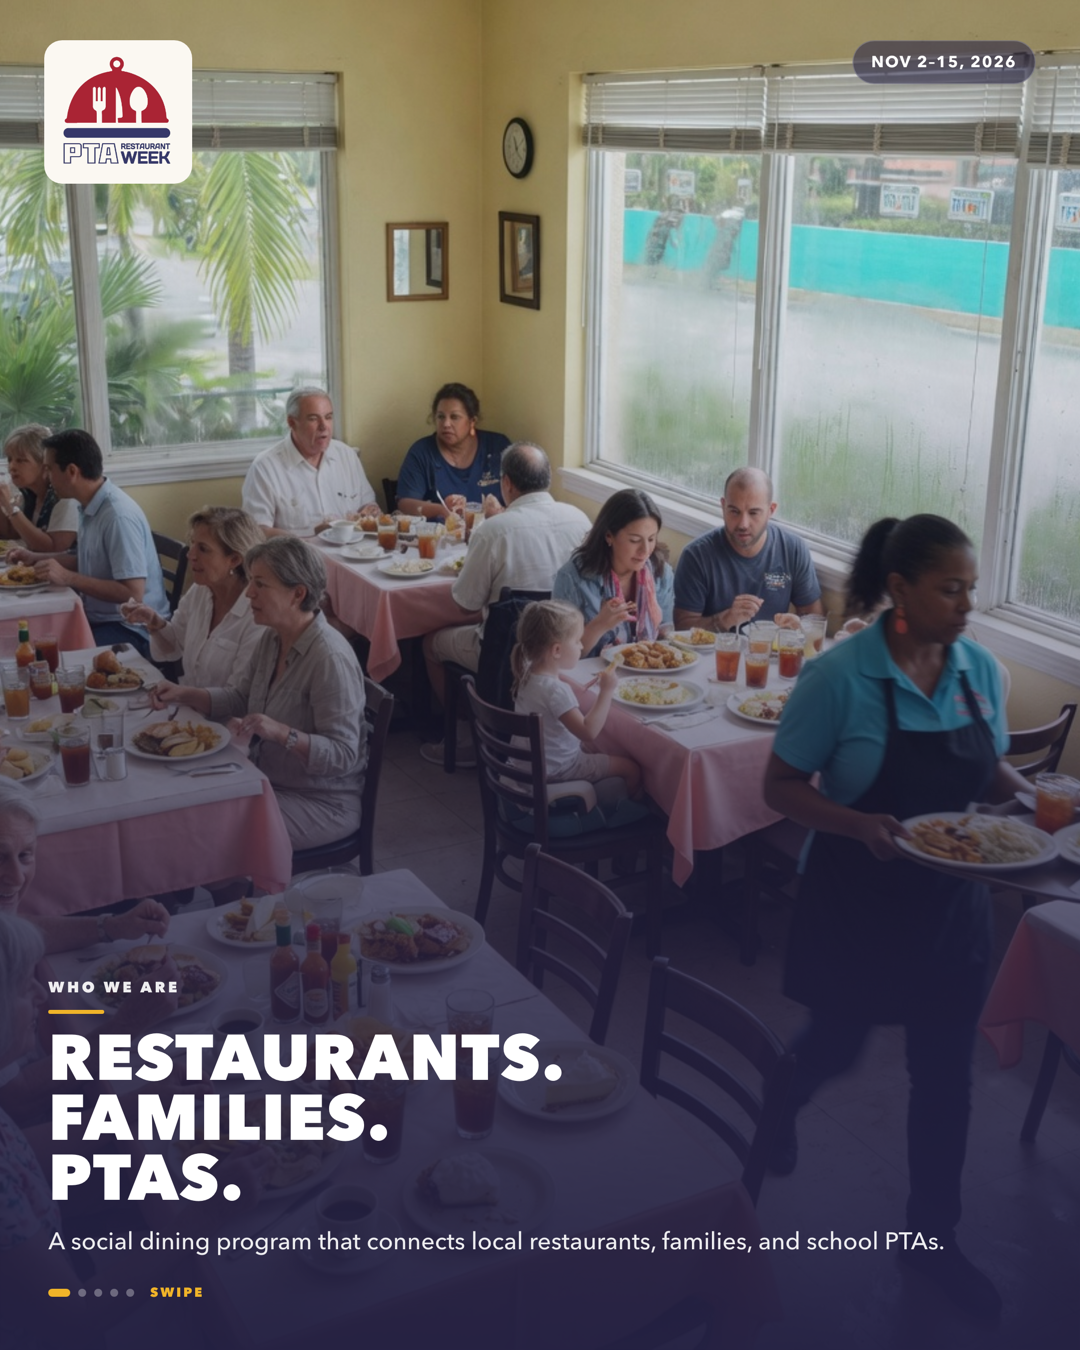
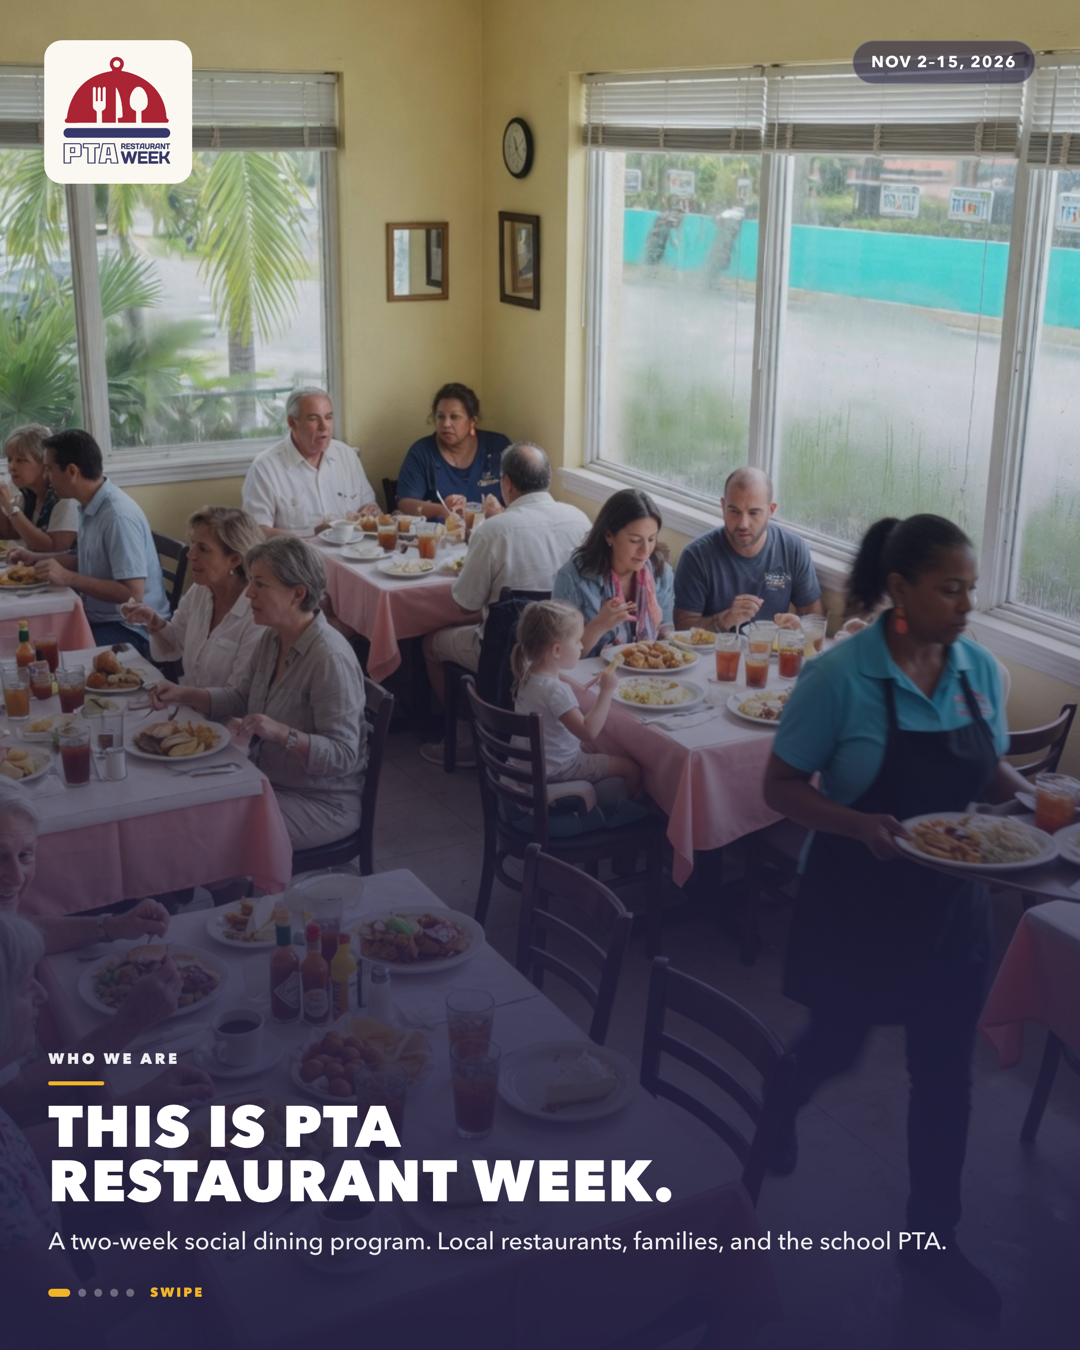
Add how-it-works carousel and refresh 29 ago gallery

Changed region(s): [[0.0306, 0.7156, 0.8861, 0.9333]]

diff --git a/2026-08-29/index.html b/2026-08-29/index.html
@@ -3,7 +3,7 @@
 <head>
 <meta charset="utf-8">
 <meta name="viewport" content="width=device-width, initial-scale=1">
-<title>29 ago 2026 — 3 carrosséis fixados (sem $900)</title>
+<title>29 ago 2026 — 4 carrosséis fixados</title>
 <style>
 :root{--navy:#33305E;--navy-dark:#242143;--cream:#FBF8F2;--red:#A32638;--gold:#F0B429;--ink:#241F33;--line:#E7E1D6;--muted:#5B5670}
 *{box-sizing:border-box}
@@ -39,36 +39,37 @@ footer{padding:20px;color:var(--muted);font-size:13px;text-align:center}
 <header>
   <div class="wrap">
     <p class="eyebrow">Pasta do dia · 29 ago 2026</p>
-    <h1>Os 3 carrosséis da vitrine, sem $900: quem somos, para quem é, quem está por trás.</h1>
-    <p class="lede">Feed 1080×1350 em PNG. Benefício do restaurante + comunidade. Escola continua $0.</p>
+    <h1>Os 4 carrosséis da vitrine: quem somos (o PTA é isso), para quem é, quem está por trás, como funciona.</h1>
+    <p class="lede">Feed 1080×1350 em PNG. Quem somos e o que é viraram um só. Sem taxa de inscrição.</p>
   </div>
 </header>
 <main>
 <div class="wrap">
 
-<div class="note"><b>Analogia.</b> Posts fixados são a vitrine da loja. Quem passa na calçada lê só isso. A vitrine agora fala o que o restaurante <i>tem no pacote</i> e o que a comunidade <i>faz na mesa</i> — não o preço da inscrição.</div>
+<div class="note"><b>Analogia.</b> PTA é a comissão de pais e mestres da escola — tipo a “comissão da festa”. PTA Restaurant Week é a semana em que o restaurante da esquina senta nessa mesma mesa.</div>
 
-<pre class="diagram">ANTES (26 ago)                 AGORA (29 ago)
-$900 to join                   The restaurant benefit
-Restaurant fee                 Window + kit + community
-How it works = preço           Quem somos + para quem é
-                               + Emerson</pre>
+<pre class="diagram">PINAR NESTA ORDEM
+1  Quem somos     →  o PTA é isso
+2  Para quem é    →  restaurante + escola
+3  Quem está atrás →  Emerson
+4  Como funciona  →  3 passos, 2 semanas</pre>
 
 <table>
-  <thead><tr><th></th><th>Sai</th><th>Entra</th></tr></thead>
+  <thead><tr><th>Post</th><th>Responde</th></tr></thead>
   <tbody>
-    <tr><td>Restaurante</td><td>$900</td><td>Janela de 2 semanas, kit (banner, QR, PR) e papel de parceiro da escola da esquina</td></tr>
-    <tr><td>Comunidade</td><td>—</td><td>20% do prato promo vai restaurante → PTA. Famílias jantam. Escola está na mesa.</td></tr>
-    <tr><td>Escola</td><td>$0 (fica)</td><td>$0. Sem catálogo. Sem pickup.</td></tr>
+    <tr><td>1 · Who we are</td><td>PTA = associação de pais e mestres. PTA Restaurant Week = o programa de 2 semanas.</td></tr>
+    <tr><td>2 · Who it’s for</td><td>Benefício do restaurante (janela, kit, comunidade) e escola $0.</td></tr>
+    <tr><td>3 · Who’s behind</td><td>Emerson. 1992 NY · 2005 Brasil · 2026 Flórida.</td></tr>
+    <tr><td>4 · How it works</td><td>Entra · janta · 20% do prato promo vai restaurante → PTA.</td></tr>
   </tbody>
 </table>
 
-<h2>1 · Who we are — 5 slides</h2>
+<h2>1 · Who we are — o PTA é isso</h2>
 <div class="row">
-  <figure><a href="01-who-we-are/01.png"><img src="01-who-we-are/01.png" alt=""></a><figcaption><b>1 · capa</b><span>Restaurants. Families. PTAs.</span></figcaption></figure>
-  <figure><a href="01-who-we-are/02.png"><img src="01-who-we-are/02.png" alt=""></a><figcaption><b>2 · origem</b><span>NYC Restaurant Week, 1992.</span></figcaption></figure>
-  <figure><a href="01-who-we-are/03.png"><img src="01-who-we-are/03.png" alt=""></a><figcaption><b>3 · a mesa</b><span>Benefício restaurante + comunidade</span></figcaption></figure>
-  <figure><a href="01-who-we-are/04.png"><img src="01-who-we-are/04.png" alt=""></a><figcaption><b>4 · o give</b><span>20% · 14 days · $0 escola</span></figcaption></figure>
+  <figure><a href="01-who-we-are/01.png"><img src="01-who-we-are/01.png" alt=""></a><figcaption><b>1 · capa</b><span>This is PTA Restaurant Week.</span></figcaption></figure>
+  <figure><a href="01-who-we-are/02.png"><img src="01-who-we-are/02.png" alt=""></a><figcaption><b>2 · o que é PTA</b><span>Parent-teacher association.</span></figcaption></figure>
+  <figure><a href="01-who-we-are/03.png"><img src="01-who-we-are/03.png" alt=""></a><figcaption><b>3 · o programa</b><span>Restaurants · families · PTA</span></figcaption></figure>
+  <figure><a href="01-who-we-are/04.png"><img src="01-who-we-are/04.png" alt=""></a><figcaption><b>4 · origem</b><span>NYC Restaurant Week, 1992.</span></figcaption></figure>
   <figure><a href="01-who-we-are/05.png"><img src="01-who-we-are/05.png" alt=""></a><figcaption><b>5 · slogan</b><span>EVERY MEAL CAN GIVE.</span></figcaption></figure>
 </div>
 <p><a class="dl" href="01-who-we-are/legenda.txt">Legenda</a></p>
@@ -91,14 +92,24 @@ How it works = preço           Quem somos + para quem é
 </div>
 <p><a class="dl" href="03-behind-pta/legenda.txt">Legenda</a></p>
 
-<p style="margin-top:28px"><span class="ok">13 artes · 3 legendas · $900 fora de cada slide e de cada caption.</span></p>
+<h2>4 · How it works — 5 slides</h2>
+<div class="row">
+  <figure><a href="04-how-it-works/01.png"><img src="04-how-it-works/01.png" alt=""></a><figcaption><b>1 · capa</b><span>Three steps. Two weeks. One school.</span></figcaption></figure>
+  <figure><a href="04-how-it-works/02.png"><img src="04-how-it-works/02.png" alt=""></a><figcaption><b>2 · entra</b><span>Promo menu + escola da esquina.</span></figcaption></figure>
+  <figure><a href="04-how-it-works/03.png"><img src="04-how-it-works/03.png" alt=""></a><figcaption><b>3 · janta</b><span>Nov 2–15. In / takeout / pickup.</span></figcaption></figure>
+  <figure><a href="04-how-it-works/04.png"><img src="04-how-it-works/04.png" alt=""></a><figcaption><b>4 · comunidade</b><span>20% do prato promo. Não da conta.</span></figcaption></figure>
+  <figure><a href="04-how-it-works/05.png"><img src="04-how-it-works/05.png" alt=""></a><figcaption><b>5 · o programa</b><span>Eat local. Give back.</span></figcaption></figure>
+</div>
+<p><a class="dl" href="04-how-it-works/legenda.txt">Legenda</a></p>
+
+<p style="margin-top:28px"><span class="ok">18 artes · 4 legendas · taxa de inscrição fora de cada slide e de cada caption.</span></p>
 
 <div class="do">
   <strong>O que você precisa fazer</strong>
   <ol>
-    <li>Abra esta página no celular e passe os 3 carrosséis.</li>
+    <li>Abra esta página e passe os 4 carrosséis — comece pelo 1 (o PTA é isso).</li>
     <li>Se estiver ok: pasta <b>PTARW-para-WhatsApp</b> na Mesa → mande cada ZIP como <b>documento</b>.</li>
-    <li>No Instagram, pinar na ordem 1 → 2 → 3. Formato feed.</li>
+    <li>No Instagram, pinar na ordem 1 → 2 → 3 → 4. Formato feed.</li>
   </ol>
 </div>
 

diff --git a/2026-08-29/04-how-it-works/html/04.html b/2026-08-29/04-how-it-works/html/04.html
@@ -453,21 +453,23 @@ html, body, .card {
 }
 
 </style></head><body>
-<div class="card">
-  <div class="bg" style="background-image:url('/Users/icarosousa/IP DIGITAL/PROJETO PTA -/Gerações IP Digital/brand-system/assets/photos/dining-window.jpg');"></div>
-  <div class="scrim"></div>
-  <div class="top">
-    <div class="logo-card"><img src="/Users/icarosousa/IP DIGITAL/PROJETO PTA -/Gerações IP Digital/brand-system/assets/logos/logo-transparent.png" alt=""></div>
-    <div class="date">NOV 2–15, 2026</div>
-  </div>
-  <div class="content">
-    <div class="eyebrow">WHO WE ARE</div>
+<div class="card graphic">
+  <div class="navy-bar"></div>
+  <div class="gwrap">
+    <div class="top" style="position:static;margin:0 0 8px;padding:0">
+      <div class="logo-card"><img src="/Users/icarosousa/IP DIGITAL/PROJETO PTA -/Gerações IP Digital/brand-system/assets/logos/logo-transparent.png" alt=""></div>
+      <div class="date">NOV 2–15, 2026</div>
+    </div>
+    <div class="kicker">STEP THREE — THE COMMUNITY</div>
     <div class="gold-rule"></div>
-    <h1 style="font-size:58px">This is PTA<br>Restaurant Week.</h1>
+    <div class="num">3</div>
+    <h1 style="font-size:40px">20% of the promo item. Not the whole check.</h1>
     
-    <p class="body">A two-week social dining program. Local restaurants, families, and the school PTA.</p>
-    
-    <div class="dots"><i class="on"></i><i class=""></i><i class=""></i><i class=""></i><i class=""></i><span class="swipe">SWIPE</span></div>
+    <p class="copy">Drinks, tax, and tip stay with the restaurant. <span class="stat">20%</span> of each qualifying promo item goes restaurant → PTA within 15 days. We never hold the funds.</p>
+    <div class="bot">
+      <div class="dots"><i class=""></i><i class=""></i><i class=""></i><i class="on"></i><i class=""></i></div>
+      <div class="url">ptarestaurantweek.com</div>
+    </div>
   </div>
 </div>
 </body></html>

diff --git a/2026-08-29/04-how-it-works/html/02.html b/2026-08-29/04-how-it-works/html/02.html
@@ -453,21 +453,23 @@ html, body, .card {
 }
 
 </style></head><body>
-<div class="card">
-  <div class="bg" style="background-image:url('/Users/icarosousa/IP DIGITAL/PROJETO PTA -/Gerações IP Digital/brand-system/assets/photos/dining-window.jpg');"></div>
-  <div class="scrim"></div>
-  <div class="top">
-    <div class="logo-card"><img src="/Users/icarosousa/IP DIGITAL/PROJETO PTA -/Gerações IP Digital/brand-system/assets/logos/logo-transparent.png" alt=""></div>
-    <div class="date">NOV 2–15, 2026</div>
-  </div>
-  <div class="content">
-    <div class="eyebrow">WHO WE ARE</div>
+<div class="card graphic">
+  <div class="navy-bar"></div>
+  <div class="gwrap">
+    <div class="top" style="position:static;margin:0 0 8px;padding:0">
+      <div class="logo-card"><img src="/Users/icarosousa/IP DIGITAL/PROJETO PTA -/Gerações IP Digital/brand-system/assets/logos/logo-transparent.png" alt=""></div>
+      <div class="date">NOV 2–15, 2026</div>
+    </div>
+    <div class="kicker">STEP ONE — RESTAURANTS JOIN</div>
     <div class="gold-rule"></div>
-    <h1 style="font-size:58px">This is PTA<br>Restaurant Week.</h1>
+    <div class="num">1</div>
+    <h1 style="font-size:42px">A promo menu. A nearby school.</h1>
     
-    <p class="body">A two-week social dining program. Local restaurants, families, and the school PTA.</p>
-    
-    <div class="dots"><i class="on"></i><i class=""></i><i class=""></i><i class=""></i><i class=""></i><span class="swipe">SWIPE</span></div>
+    <p class="copy">You pick 2–5 lunch and dinner items and the school next door. Enrollment is open through October 2. The school / PTA fee is always <span class="stat">$0</span>.</p>
+    <div class="bot">
+      <div class="dots"><i class=""></i><i class="on"></i><i class=""></i><i class=""></i><i class=""></i></div>
+      <div class="url">ptarestaurantweek.com</div>
+    </div>
   </div>
 </div>
 </body></html>

diff --git a/2026-08-29/04-how-it-works/html/03.html b/2026-08-29/04-how-it-works/html/03.html
@@ -453,21 +453,23 @@ html, body, .card {
 }
 
 </style></head><body>
-<div class="card">
-  <div class="bg" style="background-image:url('/Users/icarosousa/IP DIGITAL/PROJETO PTA -/Gerações IP Digital/brand-system/assets/photos/dining-window.jpg');"></div>
-  <div class="scrim"></div>
-  <div class="top">
-    <div class="logo-card"><img src="/Users/icarosousa/IP DIGITAL/PROJETO PTA -/Gerações IP Digital/brand-system/assets/logos/logo-transparent.png" alt=""></div>
-    <div class="date">NOV 2–15, 2026</div>
-  </div>
-  <div class="content">
-    <div class="eyebrow">WHO WE ARE</div>
+<div class="card graphic">
+  <div class="navy-bar"></div>
+  <div class="gwrap">
+    <div class="top" style="position:static;margin:0 0 8px;padding:0">
+      <div class="logo-card"><img src="/Users/icarosousa/IP DIGITAL/PROJETO PTA -/Gerações IP Digital/brand-system/assets/logos/logo-transparent.png" alt=""></div>
+      <div class="date">NOV 2–15, 2026</div>
+    </div>
+    <div class="kicker">STEP TWO — FAMILIES DINE</div>
     <div class="gold-rule"></div>
-    <h1 style="font-size:58px">This is PTA<br>Restaurant Week.</h1>
+    <div class="num">2</div>
+    <h1 style="font-size:44px">Families eat Nov 2–15.</h1>
     
-    <p class="body">A two-week social dining program. Local restaurants, families, and the school PTA.</p>
-    
-    <div class="dots"><i class="on"></i><i class=""></i><i class=""></i><i class=""></i><i class=""></i><span class="swipe">SWIPE</span></div>
+    <p class="copy">2–5 promotional items, lunch and dinner. Dine-in, takeout, or pickup. The regular menu stays on.</p>
+    <div class="bot">
+      <div class="dots"><i class=""></i><i class=""></i><i class="on"></i><i class=""></i><i class=""></i></div>
+      <div class="url">ptarestaurantweek.com</div>
+    </div>
   </div>
 </div>
 </body></html>

diff --git a/2026-08-29/04-how-it-works/html/05.html b/2026-08-29/04-how-it-works/html/05.html
@@ -454,20 +454,20 @@ html, body, .card {
 
 </style></head><body>
 <div class="card">
-  <div class="bg" style="background-image:url('/Users/icarosousa/IP DIGITAL/PROJETO PTA -/Gerações IP Digital/brand-system/assets/photos/dining-window.jpg');"></div>
+  <div class="bg" style="background-image:url('/Users/icarosousa/IP DIGITAL/PROJETO PTA -/Gerações IP Digital/brand-system/assets/photos/hero-dish.jpg');"></div>
   <div class="scrim"></div>
   <div class="top">
     <div class="logo-card"><img src="/Users/icarosousa/IP DIGITAL/PROJETO PTA -/Gerações IP Digital/brand-system/assets/logos/logo-transparent.png" alt=""></div>
     <div class="date">NOV 2–15, 2026</div>
   </div>
   <div class="content">
-    <div class="eyebrow">WHO WE ARE</div>
+    <div class="eyebrow">THAT&#x27;S THE PROGRAM</div>
     <div class="gold-rule"></div>
-    <h1 style="font-size:58px">This is PTA<br>Restaurant Week.</h1>
+    <h1 style="font-size:58px">Eat local.<br>Give back.</h1>
+    <div class="stats"><div class="cell"><div class="n">20%</div><div class="l">promo item</div></div><div class="cell"><div class="n">14 days</div><div class="l">Nov 2–15</div></div><div class="cell"><div class="n">$0</div><div class="l">school / PTA</div></div></div>
     
-    <p class="body">A two-week social dining program. Local restaurants, families, and the school PTA.</p>
-    
-    <div class="dots"><i class="on"></i><i class=""></i><i class=""></i><i class=""></i><i class=""></i><span class="swipe">SWIPE</span></div>
+    <div class="row"><span class="cta">SEE THE PROGRAM</span><span class="url">ptarestaurantweek.com</span></div>
+    <div class="dots"><i class=""></i><i class=""></i><i class=""></i><i class=""></i><i class="on"></i><span class="swipe">SWIPE</span></div>
   </div>
 </div>
 </body></html>

diff --git a/2026-08-29/01-who-we-are/html/03.html b/2026-08-29/01-who-we-are/html/03.html
@@ -460,16 +460,16 @@ html, body, .card {
       <div class="logo-card"><img src="/Users/icarosousa/IP DIGITAL/PROJETO PTA -/Gerações IP Digital/brand-system/assets/logos/logo-transparent.png" alt=""></div>
       <div class="date">NOV 2–15, 2026</div>
     </div>
-    <div class="kicker">THE TABLE</div>
+    <div class="kicker">WHAT IT IS</div>
     <div class="gold-rule"></div>
     
-    <h1 style="font-size:40px">A restaurant benefit. A community program.</h1>
+    <h1 style="font-size:40px">PTA Restaurant Week is this.</h1>
     
     <div class="copy">
 <div class="stack">
   <div class="block"><div class="lab">Restaurants give</div><p>Participating restaurants offer 2–5 promo lunch and dinner items — a public give-back in the neighborhood they already serve.</p></div>
   <div class="block"><div class="lab">Families dine</div><p>Dine-in, takeout, or pickup. One meal. The school is part of the table.</p></div>
-  <div class="block"><div class="lab">Schools are in</div><p><span class="stat">20%</span> of each qualifying promo item goes restaurant → PTA. School cost: <span class="stat">$0</span>.</p></div>
+  <div class="block"><div class="lab">The PTA is in</div><p><span class="stat">20%</span> of each qualifying promo item goes restaurant → PTA. School cost: <span class="stat">$0</span>.</p></div>
 </div></div>
     <div class="bot">
       <div class="dots"><i class=""></i><i class=""></i><i class="on"></i><i class=""></i><i class=""></i></div>

diff --git a/2026-08-29/04-how-it-works/html/01.html b/2026-08-29/04-how-it-works/html/01.html
@@ -454,18 +454,18 @@ html, body, .card {
 
 </style></head><body>
 <div class="card">
-  <div class="bg" style="background-image:url('/Users/icarosousa/IP DIGITAL/PROJETO PTA -/Gerações IP Digital/brand-system/assets/photos/dining-window.jpg');"></div>
+  <div class="bg" style="background-image:url('/Users/icarosousa/IP DIGITAL/PROJETO PTA -/Gerações IP Digital/brand-system/assets/photos/chef-pass.jpg');"></div>
   <div class="scrim"></div>
   <div class="top">
     <div class="logo-card"><img src="/Users/icarosousa/IP DIGITAL/PROJETO PTA -/Gerações IP Digital/brand-system/assets/logos/logo-transparent.png" alt=""></div>
     <div class="date">NOV 2–15, 2026</div>
   </div>
   <div class="content">
-    <div class="eyebrow">WHO WE ARE</div>
+    <div class="eyebrow">HOW IT WORKS</div>
     <div class="gold-rule"></div>
-    <h1 style="font-size:58px">This is PTA<br>Restaurant Week.</h1>
+    <h1 style="font-size:58px">Three steps.<br>Two weeks.<br>One school.</h1>
     
-    <p class="body">A two-week social dining program. Local restaurants, families, and the school PTA.</p>
+    <p class="body">Founding edition. November 2–15, 2026.</p>
     
     <div class="dots"><i class="on"></i><i class=""></i><i class=""></i><i class=""></i><i class=""></i><span class="swipe">SWIPE</span></div>
   </div>

diff --git a/2026-08-29/01-who-we-are/html/04.html b/2026-08-29/01-who-we-are/html/04.html
@@ -460,12 +460,12 @@ html, body, .card {
       <div class="logo-card"><img src="/Users/icarosousa/IP DIGITAL/PROJETO PTA -/Gerações IP Digital/brand-system/assets/logos/logo-transparent.png" alt=""></div>
       <div class="date">NOV 2–15, 2026</div>
     </div>
-    <div class="kicker">THE GIVE</div>
+    <div class="kicker">THE ORIGIN</div>
     <div class="gold-rule"></div>
     
-    <h1 style="font-size:42px">20% of the promo item. Not the whole check.</h1>
-    <div class="stats"><div class="cell"><div class="n">20%</div><div class="l">promo item</div></div><div class="cell"><div class="n">14 days</div><div class="l">Nov 2–15</div></div><div class="cell"><div class="n">$0</div><div class="l">school / PTA</div></div></div>
-    <p class="copy">Drinks, tax, and tip stay with the restaurant. Funds go restaurant → PTA. We never hold them.</p>
+    <h1 style="font-size:44px">Inspired by NYC Restaurant Week, 1992.</h1>
+    
+    <p class="copy">PTA Restaurant Week brings that model to South Florida school PTAs — Palm Beach, Miami-Dade, and Broward. Founding edition: November 2–15, 2026.</p>
     <div class="bot">
       <div class="dots"><i class=""></i><i class=""></i><i class=""></i><i class="on"></i><i class=""></i></div>
       <div class="url">ptarestaurantweek.com</div>

diff --git a/2026-08-29/01-who-we-are/html/02.html b/2026-08-29/01-who-we-are/html/02.html
@@ -460,12 +460,12 @@ html, body, .card {
       <div class="logo-card"><img src="/Users/icarosousa/IP DIGITAL/PROJETO PTA -/Gerações IP Digital/brand-system/assets/logos/logo-transparent.png" alt=""></div>
       <div class="date">NOV 2–15, 2026</div>
     </div>
-    <div class="kicker">THE ORIGIN</div>
+    <div class="kicker">WHAT PTA MEANS</div>
     <div class="gold-rule"></div>
     
-    <h1 style="font-size:44px">Inspired by NYC Restaurant Week, 1992.</h1>
+    <h1 style="font-size:40px">PTA is the school’s parent-teacher association.</h1>
     
-    <p class="copy">PTA Restaurant Week brings that model to South Florida school PTAs — Palm Beach, Miami-Dade, and Broward. Founding edition: November 2–15, 2026.</p>
+    <p class="copy">Parents and teachers who support the local school. PTA Restaurant Week puts that PTA at the same table as restaurants and families.</p>
     <div class="bot">
       <div class="dots"><i class=""></i><i class="on"></i><i class=""></i><i class=""></i><i class=""></i></div>
       <div class="url">ptarestaurantweek.com</div>

diff --git a/index.html b/index.html
@@ -36,7 +36,7 @@ a.card span{color:#5B5670;font-size:14px}
 <a class="card" href="2026-08-29/">
   <span class="n">HOJE</span>
   <b>29 ago 2026</b>
-  <span>3 carrosséis fixados sem preço de inscrição: quem somos, para quem é, Emerson.</span>
+  <span>4 carrosséis fixados: quem somos (o PTA é isso), para quem é, Emerson, como funciona.</span>
 </a>
 <a class="card" href="2026-08-26/">
   <b>26 ago 2026</b>
